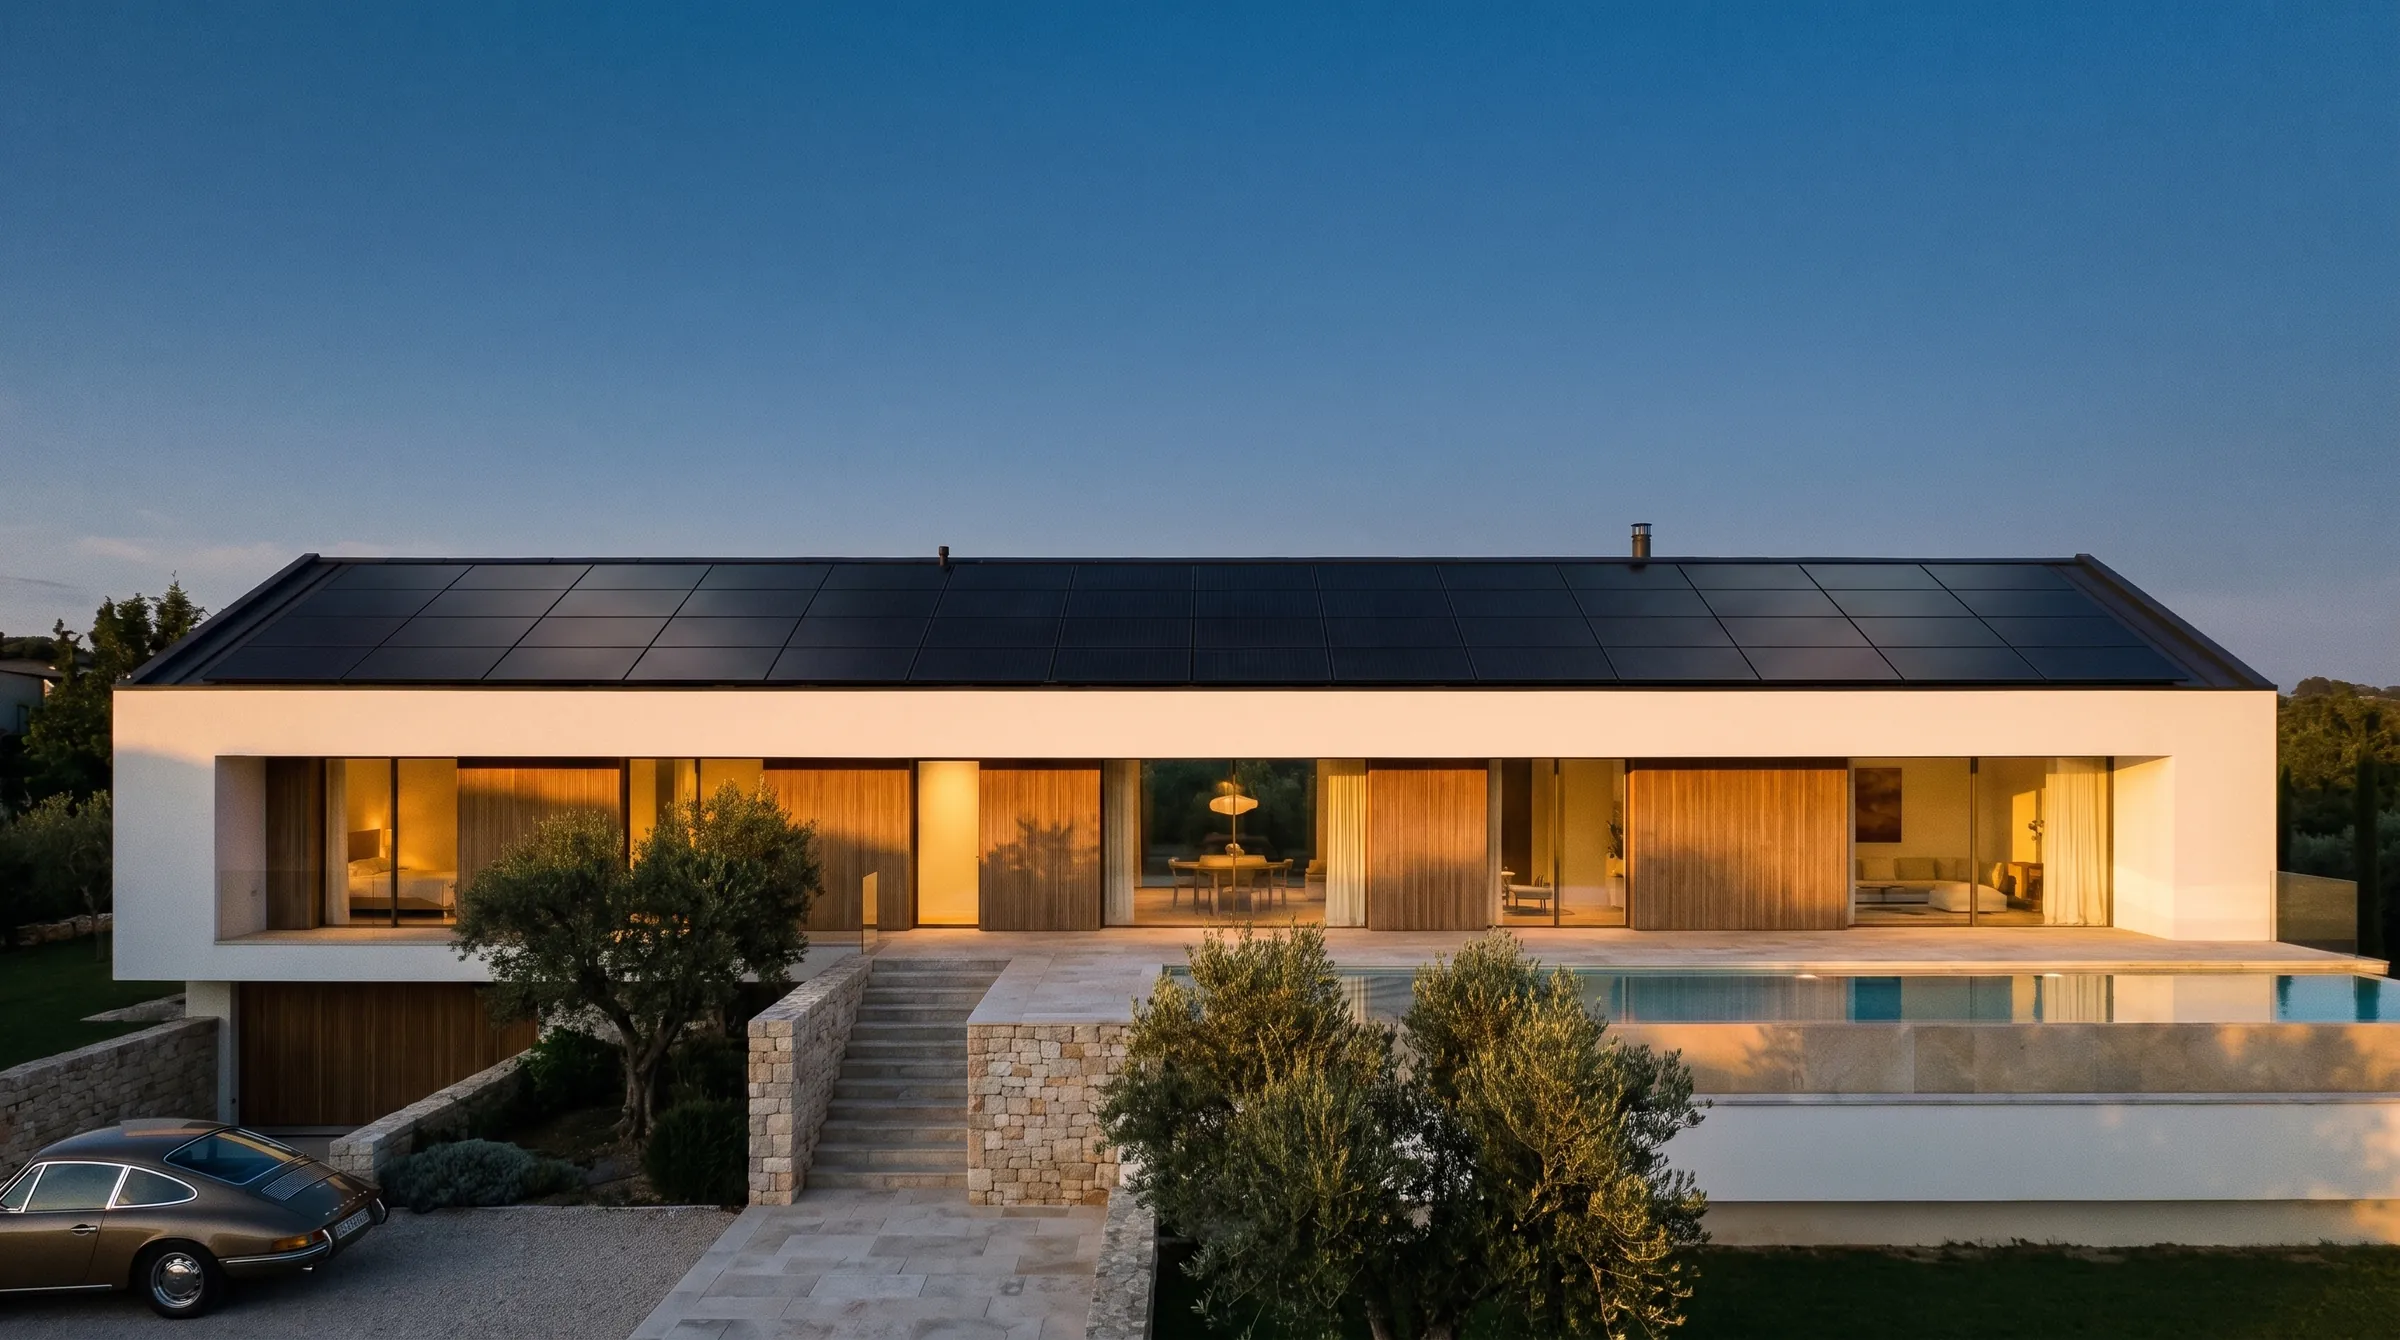
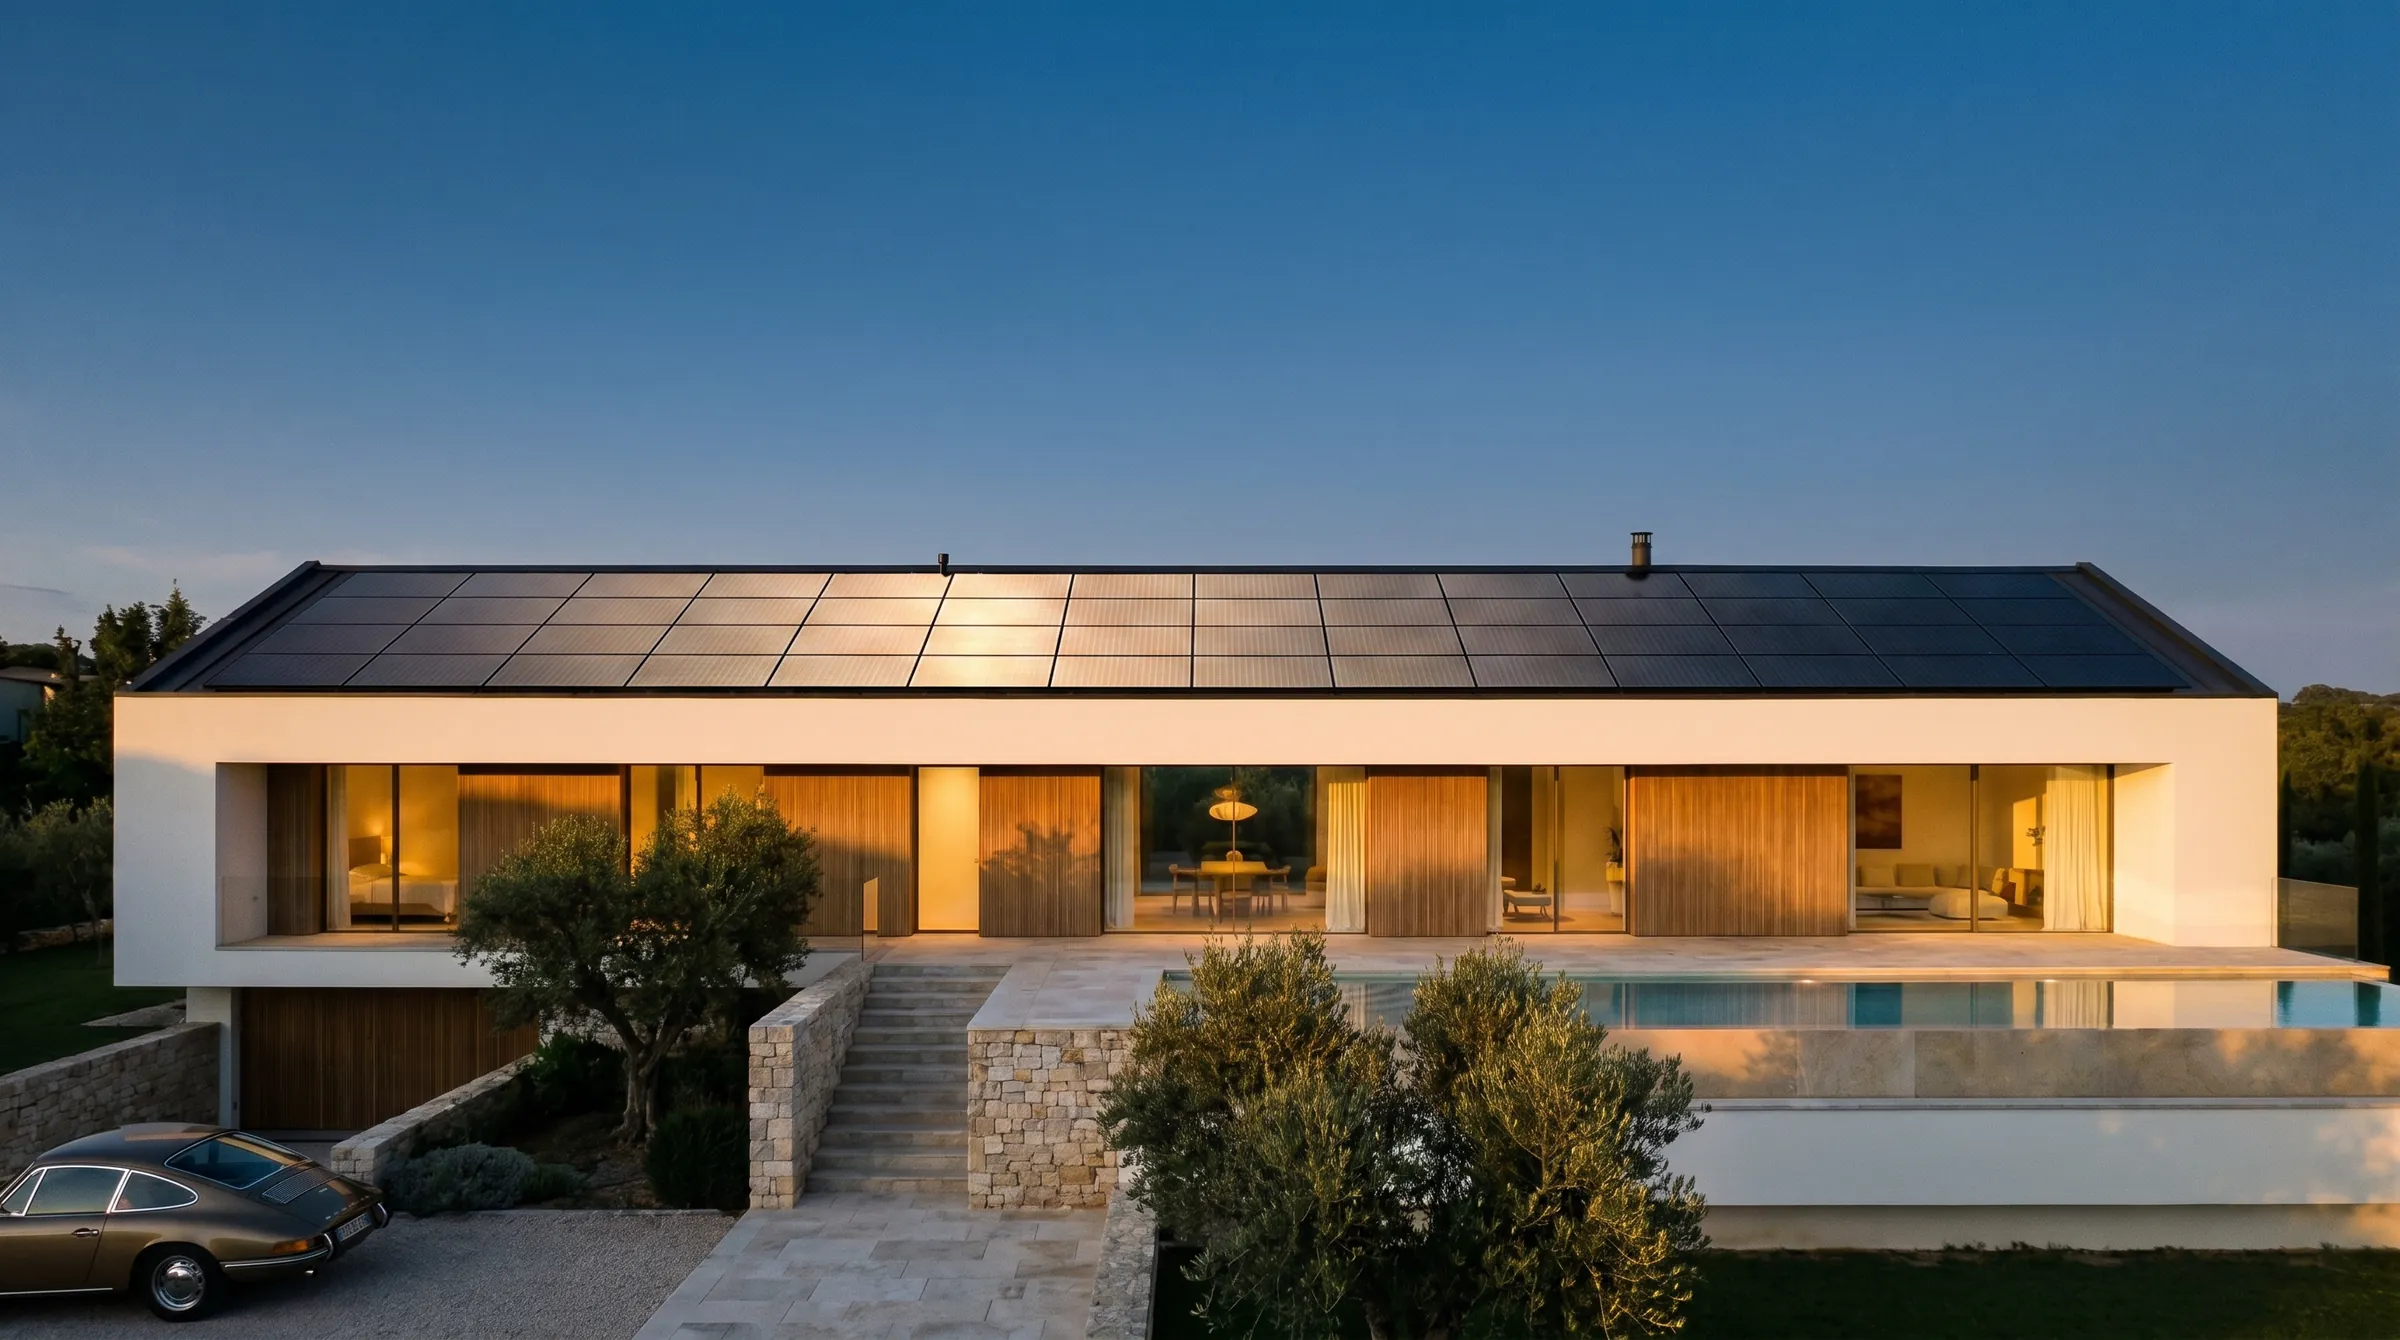
Add files via upload

diff --git a/index.html b/index.html
@@ -124,18 +124,13 @@ body.fxon #cursor{display:block}
 .hero-badges{position:absolute;left:0;right:0;bottom:0;z-index:3;display:flex;gap:10px;flex-wrap:wrap;padding:0 32px 26px;max-width:1200px;margin:0 auto}
 .hero-badges span{font-size:.82rem;font-weight:500;color:#EDEAE0;background:rgba(7,12,22,.55);border:1px solid var(--line-d);backdrop-filter:blur(10px);padding:9px 16px;border-radius:100px}
 .hero-badges b{color:var(--sole);font-weight:700}
-/* hero spotlight reveal */
-.hero-reveal{position:relative;width:100%;height:100%;overflow:hidden;cursor:crosshair}
+/* hero liquid reveal (dual-texture shader) */
+.hero-reveal{position:relative;width:100%;height:100%;overflow:hidden}
 .hr-layer{position:absolute;inset:0;width:100%;height:100%;object-fit:cover;display:block}
 .hr-base{z-index:1}
-.hr-top{z-index:2;--mx:50%;--my:38%;--r:150px;
-  -webkit-mask-image:radial-gradient(circle var(--r) at var(--mx) var(--my),#000 0%,#000 62%,transparent 100%);
-          mask-image:radial-gradient(circle var(--r) at var(--mx) var(--my),#000 0%,#000 62%,transparent 100%)}
-.hr-top::after{content:'';position:absolute;left:var(--mx);top:var(--my);width:calc(var(--r)*2);height:calc(var(--r)*2);transform:translate(-50%,-50%);border-radius:50%;pointer-events:none;box-shadow:0 0 40px 4px rgba(245,166,35,.35);opacity:0;transition:opacity .35s}
-.hero-reveal:hover .hr-top::after{opacity:1}
-.hr-hint{position:absolute;z-index:3;left:50%;bottom:16px;transform:translateX(-50%);font-family:'Instrument Sans',sans-serif;font-size:.74rem;font-weight:600;letter-spacing:.14em;text-transform:uppercase;color:#fff;background:rgba(7,12,22,.55);border:1px solid var(--line-d);backdrop-filter:blur(8px);padding:8px 16px;border-radius:100px;transition:opacity .4s;pointer-events:none}
-.hero-reveal:hover .hr-hint{opacity:0}
-@media (hover:none){.hr-top{-webkit-mask-image:none;mask-image:none}.hr-hint{display:none}}
+.hr-top{z-index:2;opacity:0}                 /* nascosto: la fusione avviene nel canvas WebGL */
+.hero-reveal canvas.liquid{position:absolute;inset:0;z-index:3;width:100%;height:100%;display:block}
+@media (hover:none){.hr-top{opacity:0}}      /* touch: mostra il "prima" statico (nessuno shader) */
 /* orologio di bordo */
 .hero-hud{position:absolute;top:112px;right:32px;z-index:3;text-align:right;font-variant-numeric:tabular-nums}
 .hero-hud .hh-time{font-family:'Bricolage Grotesque',sans-serif;font-weight:700;font-size:1.05rem;color:#F6F1E6;letter-spacing:.04em}
@@ -624,9 +619,8 @@ footer p{font-size:.85rem;line-height:1.7}
   </div>
   <div class="hero-media">
     <div class="hero-reveal" id="heroReveal">
-      <img class="hr-layer hr-base" src="hero-prima.webp" alt="Villa moderna con tetto senza fotovoltaico" fetchpriority="high">
-      <img class="hr-layer hr-top" id="hrTop" src="hero-dopo.webp" alt="La stessa villa con impianto fotovoltaico REALHOME All-Black" aria-hidden="true">
-      <span class="hr-hint" aria-hidden="true">Muovi il mouse sul tetto</span>
+      <img class="hr-layer hr-base" id="hrPrima" crossorigin="anonymous" src="hero-prima.webp" alt="Villa moderna con impianto fotovoltaico REALHOME al crepuscolo" fetchpriority="high">
+      <img class="hr-layer hr-top" id="hrDopo" crossorigin="anonymous" src="hero-dopo.webp" alt="" aria-hidden="true">
     </div>
     <div class="hero-badges">
       <span>✓ Pratica <b>GSE</b> inclusa</span>
@@ -1295,22 +1289,59 @@ if (FX && window.THREE) (function(){
     renderer.render(scene,cam);requestAnimationFrame(loop)})(0);
 })();
 
-/* ---------- 3. hero spotlight (mouse-tracking reveal) ---------- */
-(function heroSpotlight(){
+/* ---------- 3. hero liquid ripple reveal (dual-texture shader) ---------- */
+if (FX && window.THREE) (function(){
   const box=document.getElementById('heroReveal');
-  const top=document.getElementById('hrTop');
-  if(!box||!top) return;
-  if(!window.matchMedia('(hover:hover)').matches) return;
-  let tx=50,ty=38,raf=null;
-  function apply(){top.style.setProperty('--mx',tx+'%');top.style.setProperty('--my',ty+'%');raf=null;}
-  box.addEventListener('mousemove',e=>{
-    const r=box.getBoundingClientRect();
-    tx=((e.clientX-r.left)/r.width)*100;
-    ty=((e.clientY-r.top)/r.height)*100;
-    if(!raf) raf=requestAnimationFrame(apply);
-  },{passive:true});
-  const setR=()=>top.style.setProperty('--r',Math.max(110,box.clientWidth*0.13)+'px');
-  setR(); addEventListener('resize',setR);
+  const imgA=document.getElementById('hrPrima');   // prima (tetto pulito)
+  const imgB=document.getElementById('hrDopo');    // dopo (pannelli)
+  if(!box||!imgA||!imgB) return;
+  if(!window.matchMedia('(hover:hover)').matches) return;   // touch: resta statico
+
+  const VERT=`varying vec2 vUv;void main(){vUv=uv;gl_Position=vec4(position,1.0);}`;
+  // increspatura ad anello attorno al mouse; la stessa onda pilota sia la
+  // distorsione UV sia la miscela prima->dopo (effetto "acqua che rivela")
+  const FRAG=`precision mediump float;
+  uniform sampler2D uA,uB;uniform float uTime,uHover;uniform vec2 uMouse,uScale;varying vec2 vUv;
+  void main(){
+    vec2 uv=(vUv-.5)*uScale+.5;
+    float d=distance(vUv,uMouse);
+    float wave=sin(d*24.0-uTime*4.2)*smoothstep(.55,0.,d);
+    uv+=normalize(vUv-uMouse+.0001)*wave*.016*uHover;
+    vec4 a=texture2D(uA,clamp(uv,.002,.998));
+    vec4 b=texture2D(uB,clamp(uv,.002,.998));
+    // rivelazione morbida: disco attorno al mouse + spinta dell'onda
+    float reveal=smoothstep(.42,.05,d)+wave*.35;
+    reveal=clamp(reveal*uHover,0.,1.);
+    gl_FragColor=mix(a,b,reveal);
+  }`;
+
+  const loader=new THREE.TextureLoader();loader.crossOrigin='anonymous';
+  let loaded=0,texA,texB;
+  function ready(){
+    if(loaded<2) return;
+    texA.minFilter=texB.minFilter=THREE.LinearFilter;
+    const cv=document.createElement('canvas');cv.className='liquid';
+    const renderer=new THREE.WebGLRenderer({canvas:cv,antialias:true});
+    const scene=new THREE.Scene(),cam=new THREE.OrthographicCamera(-1,1,1,-1,0,1);
+    const uni={uA:{value:texA},uB:{value:texB},uTime:{value:0},uHover:{value:0},
+      uMouse:{value:new THREE.Vector2(.5,.5)},uScale:{value:new THREE.Vector2(1,1)}};
+    scene.add(new THREE.Mesh(new THREE.PlaneGeometry(2,2),
+      new THREE.ShaderMaterial({uniforms:uni,vertexShader:VERT,fragmentShader:FRAG})));
+    const ia=texA.image.width/texA.image.height;
+    function size(){const r=box.getBoundingClientRect();if(!r.width)return;
+      renderer.setPixelRatio(Math.min(devicePixelRatio,2));
+      renderer.setSize(r.width,r.height,false);
+      const pa=r.width/r.height;uni.uScale.value.set(ia>pa?pa/ia:1,ia>pa?1:ia/pa);}
+    size();addEventListener('resize',size);
+    box.appendChild(cv);imgA.style.visibility='hidden';
+    box.addEventListener('mouseenter',()=>gsap.to(uni.uHover,{value:1,duration:.7,ease:'power2.out'}));
+    box.addEventListener('mouseleave',()=>gsap.to(uni.uHover,{value:0,duration:1.0,ease:'power2.out'}));
+    box.addEventListener('mousemove',e=>{const r=cv.getBoundingClientRect();
+      uni.uMouse.value.set((e.clientX-r.left)/r.width,1-(e.clientY-r.top)/r.height);},{passive:true});
+    (function loop(t){uni.uTime.value=t*.001;renderer.render(scene,cam);requestAnimationFrame(loop);})(0);
+  }
+  texA=loader.load(imgA.src,()=>{loaded++;ready();});
+  texB=loader.load(imgB.src,()=>{loaded++;ready();});
 })();
 
 /* ---------- 4. text reveal + fade ---------- */